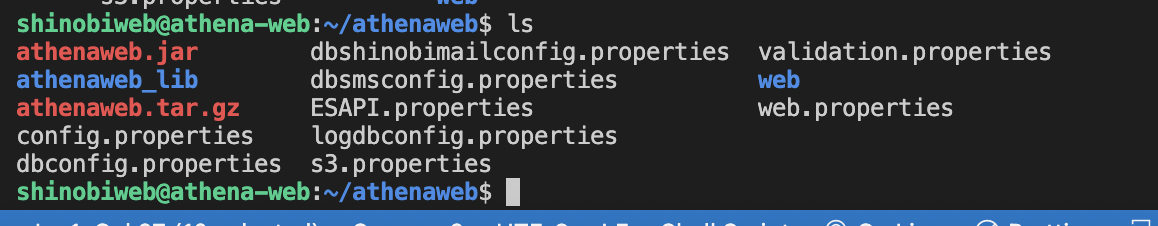
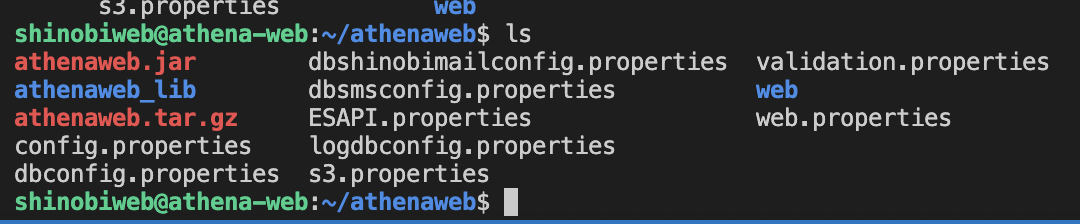
GitBook: [#323] No subject

diff --git a/shinobi-framework/khac/deploy-app-len-server.md b/shinobi-framework/khac/deploy-app-len-server.md
@@ -20,7 +20,7 @@ Web app shinobi(WAS) khi chạy trên IDE là một ứng dụng Java sử dụn
 
 **Ví dụ về các file có trên server khi deploy WAS (athena website)**
 
-<figure><img src="../../.gitbook/assets/image (4).png" alt=""><figcaption><p>Ví dụ về các file có trên server khi deploy WAS</p></figcaption></figure>
+<figure><img src="../../.gitbook/assets/image (4).png" alt=""><figcaption></figcaption></figure>
 
 Trong ảnh trên chia thành các nhóm chính sau:
 
@@ -29,6 +29,15 @@ Trong ảnh trên chia thành các nhóm chính sau:
 3. athena.tar.gz: File này là file tạm lúc copy file lên server(không tham gia quá trình chạy app)
 4. Các file config: web.properties, s3.properties, dbconfig.properties,...
 5. web/: Thư mục chứa phần giao diện của web app (phần này có hay không tuỳ thuộc vào web app có sử dụng giao diện hay không)
+
+## Quy trình Deploy
+
+### Yêu cầu
+
+1. Java JDK portable. Download [tại đây](https://drive.google.com/file/d/14THaCJBWqbnYYSiNORPwF0vlE1dNUXBS/view?usp=sharing)
+2.
+
+### Chạy web app bằng eclipse
 
 
 
